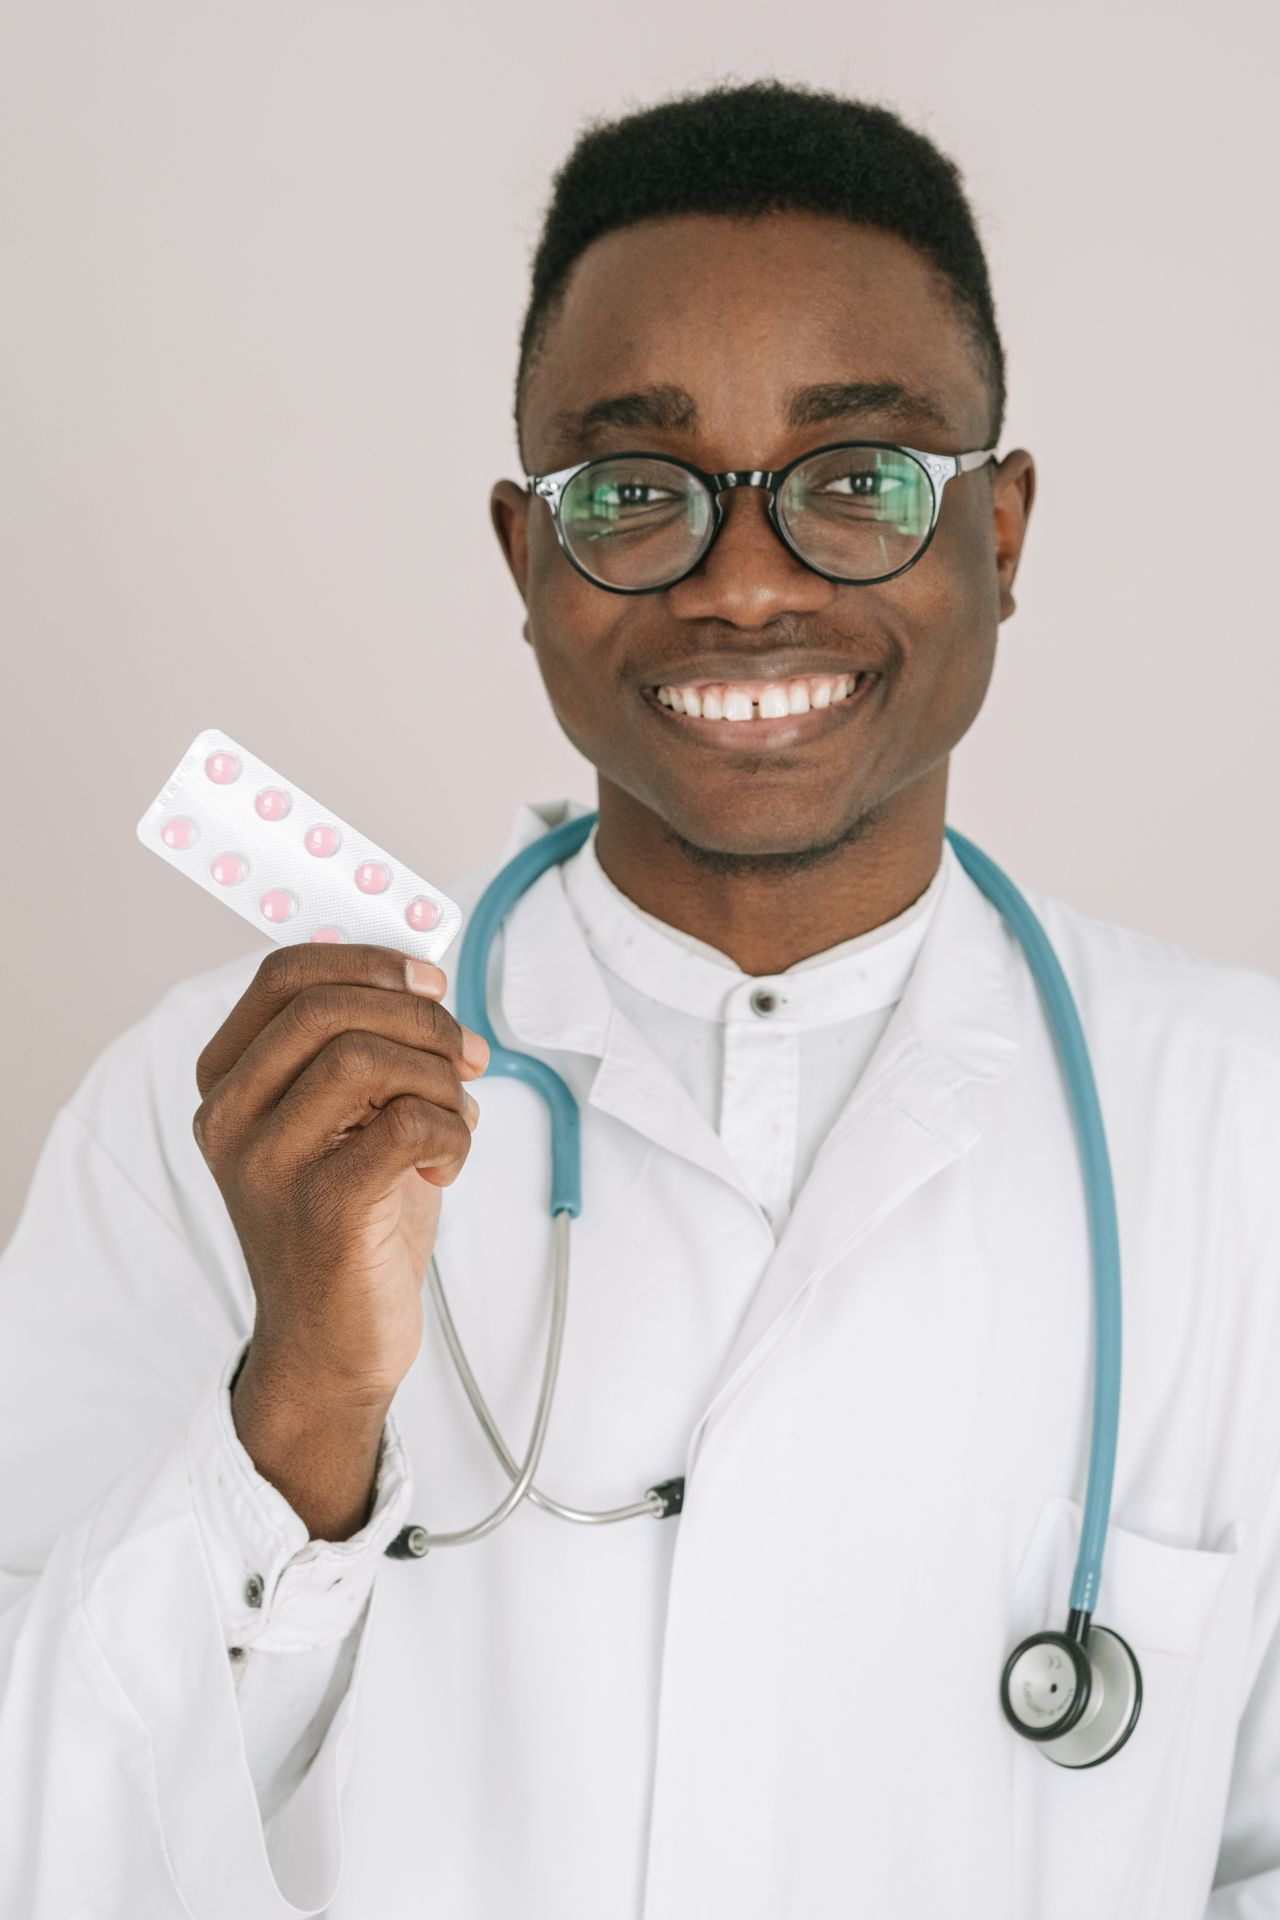
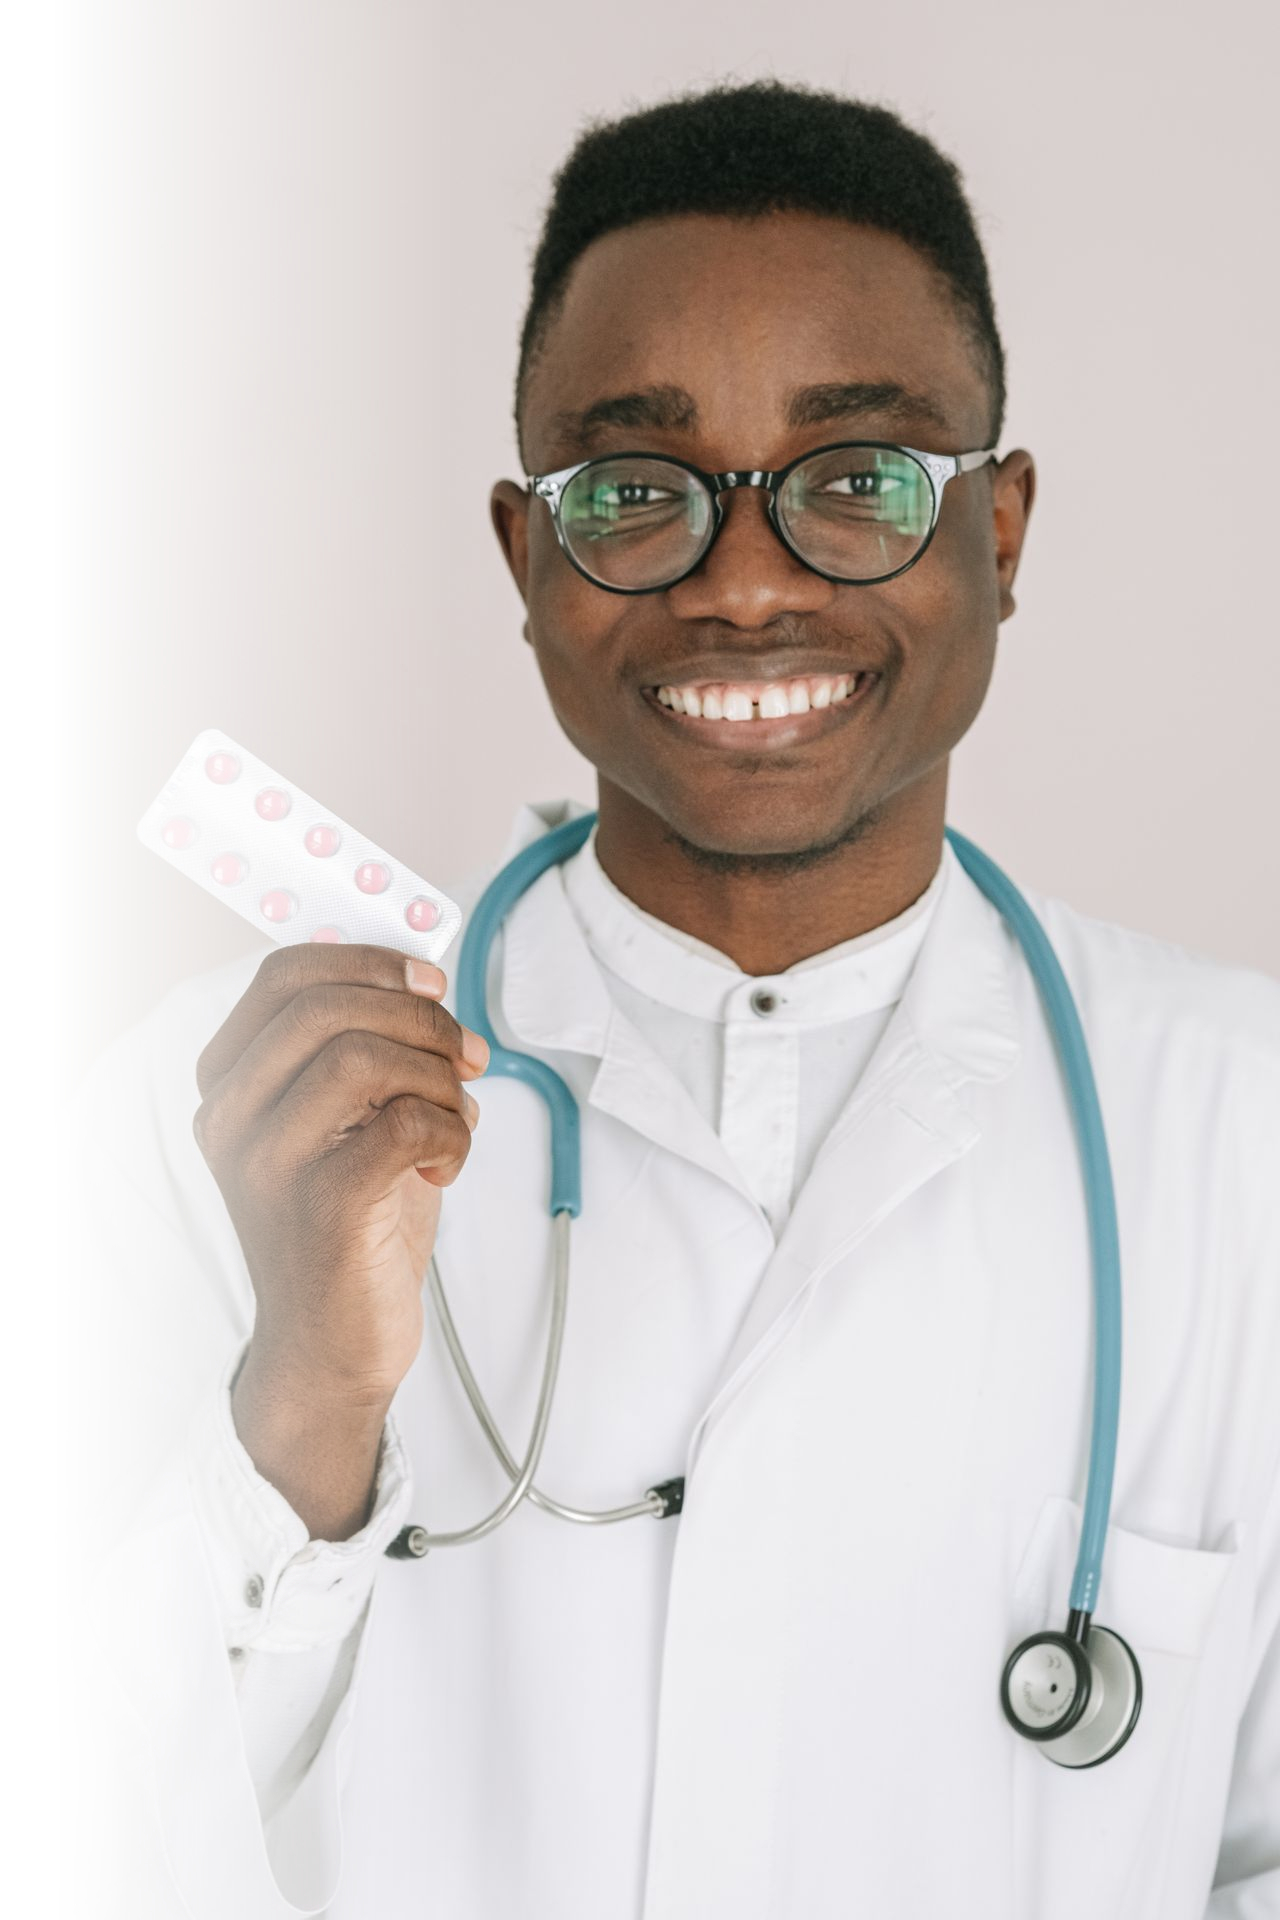
Fixed an error when deleting a doctor while having patients appointments registered. Data in  user table inside admin panel now stays visible when clicking edit button.

diff --git a/controllers/admincontroller.js b/controllers/admincontroller.js
@@ -72,9 +72,21 @@ export async function updateUser(req, res) {
 
 export async function deleteUser(req, res) {
   try {
+    const hasAppointments = await appointmentModel.exists({
+      doctor: req.params.id,
+    });
+    if (hasAppointments) {
+      return res
+        .status(409)
+        .json({
+          message:
+            "No se puede eliminar ya que el doctor tiene turnos asociados. Elimine los turnos primero.",
+        });
+    }
     await userModel.findByIdAndDelete(req.params.id);
     res.json({ message: "Usuario eliminado" });
   } catch (error) {
+    console.log("Error completo:", error);
     res
       .status(500)
       .json({ message: "Error al eliminar usuario", error: error.message });

diff --git a/src/pages/AdminPanel.jsx b/src/pages/AdminPanel.jsx
@@ -1,6 +1,6 @@
 import { useState, useEffect } from "react";
 import { useNavigate } from "react-router-dom";
-import isologo from '../assets/isologo.png';
+import isologo from "../assets/isologo.png";
 
 function AdminPanel() {
   const [activeTable, setActiveTable] = useState("usuarios");
@@ -21,7 +21,8 @@ function AdminPanel() {
         method: "DELETE",
         headers: { Authorization: `Bearer ${token}` },
       });
-      if (!res.ok) return setError("Error al eliminar usuario");
+      const data = await res.json();
+      if (!res.ok) return setError(data.message);
       setUsers((prev) => prev.filter((u) => u._id !== id));
     } catch {
       setError("Error al conectar con el servidor");
@@ -30,7 +31,12 @@ function AdminPanel() {
 
   function handleEditUserStart(user) {
     setEditingUserId(user._id);
-    setEditUserData({ user: user.user, role: user.role });
+    setEditUserData({
+      name: user.name,
+      surname: user.surname,
+      dni: user.dni,
+      role: user.role,
+    });
   }
 
   async function handleEditUserSave(id) {